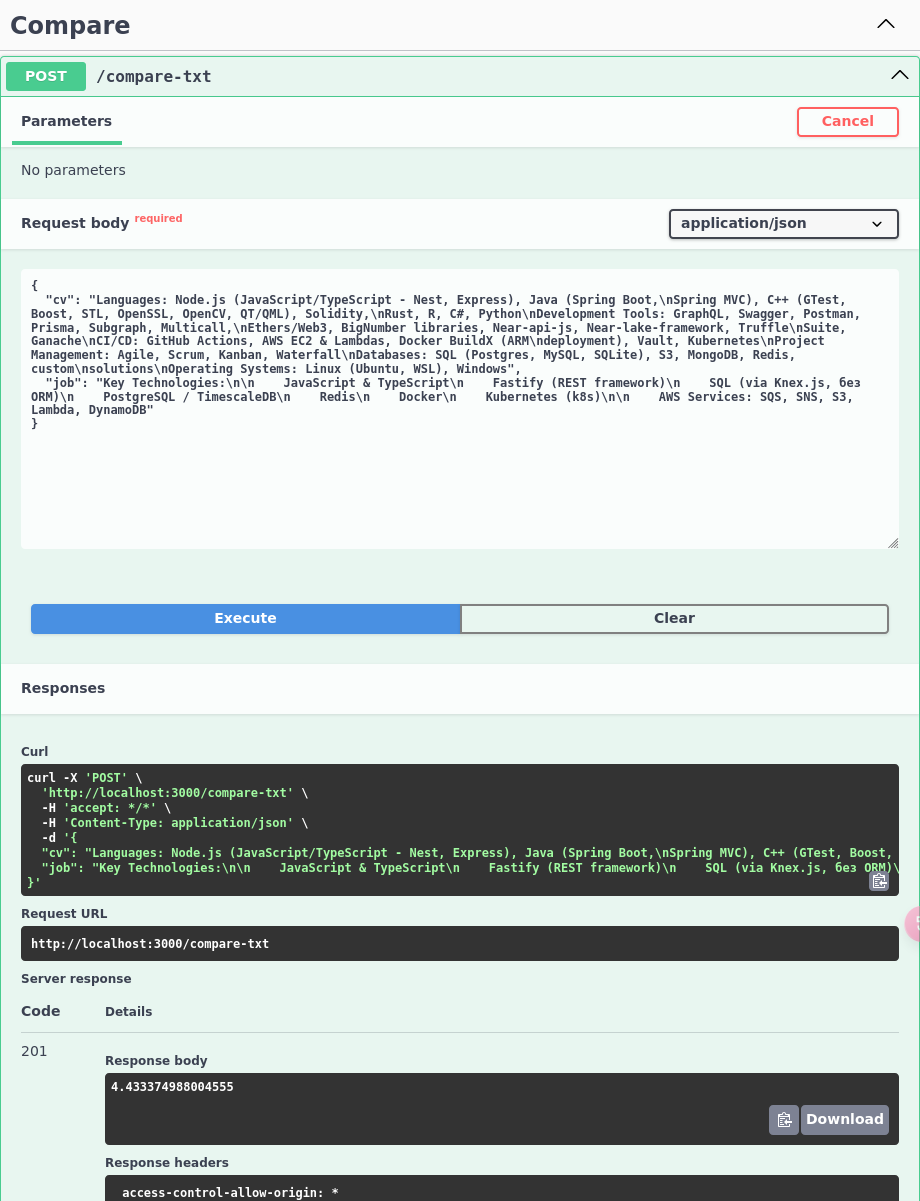
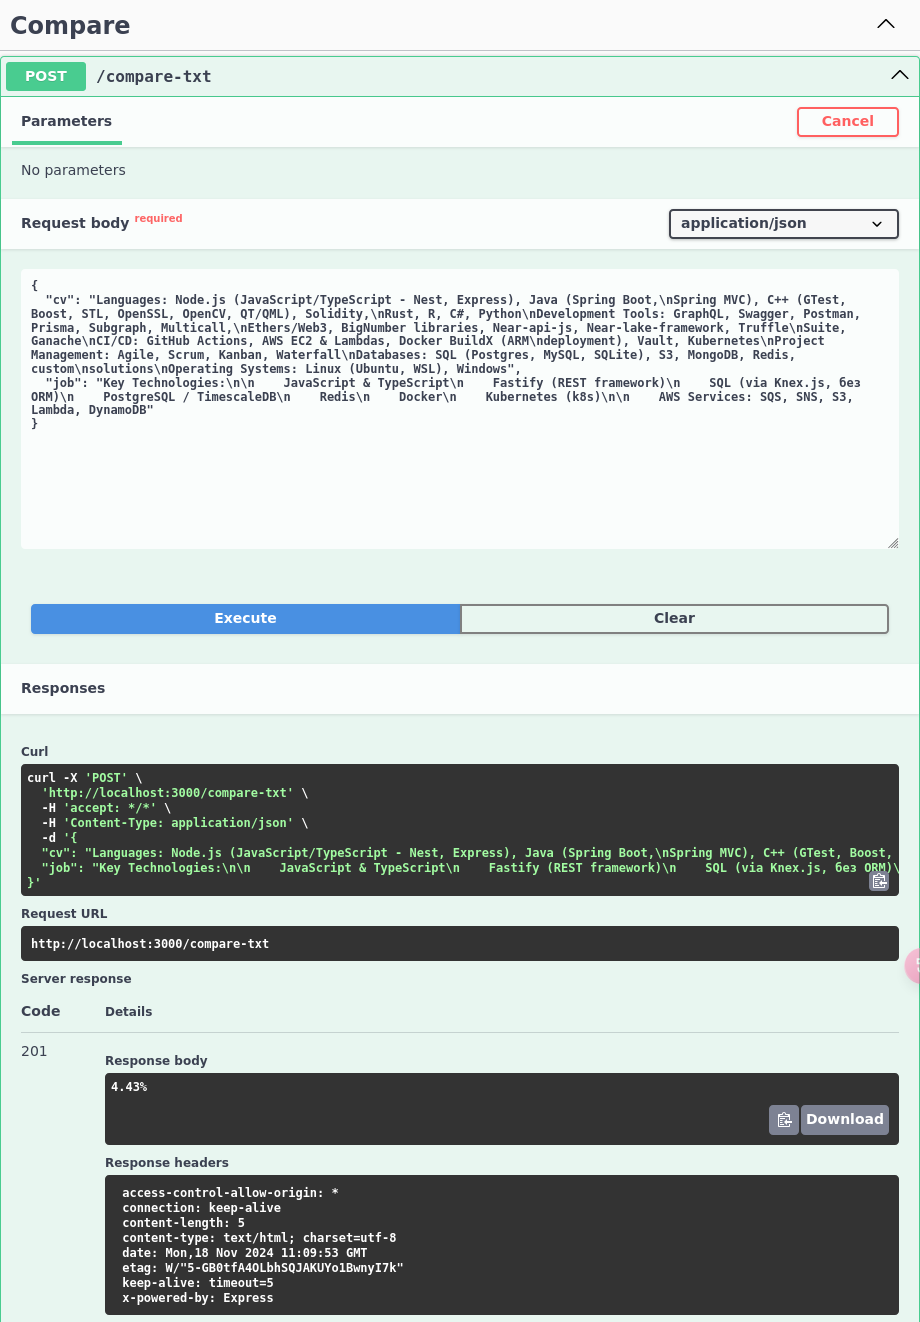
add percentage output

diff --git a/src/features/comparison/comparison.service.ts b/src/features/comparison/comparison.service.ts
@@ -9,7 +9,7 @@ export class ComparisonService {
     private readonly calculation: CalculationService,
   ) {}
 
-  public async getSimilarity(cv: string, job: string): Promise<number> {
+  public async getSimilarity(cv: string, job: string): Promise<string> {
     const [cvEntities, jobEntities] = await Promise.all([
       this.model.extractEntities('[RESUME]' + cv),
       this.model.extractEntities('[JOB_DESCRIPTION]' + job),
@@ -23,6 +23,6 @@ export class ComparisonService {
       jobNormalized,
     );
 
-    return factor * 100;
+    return (factor * 100).toFixed(2) + '%';
   }
 }

diff --git a/src/api/compare/compare.controller.ts b/src/api/compare/compare.controller.ts
@@ -8,7 +8,7 @@ export class CompareController {
   constructor(private readonly comparison: ComparisonService) {}
 
   @Post('compare-txt')
-  compare(@Body() request: CompareTextsDTO): Promise<number> {
+  compare(@Body() request: CompareTextsDTO): Promise<string> {
     return this.comparison.getSimilarity(request.cv, request.job);
   }
 }
